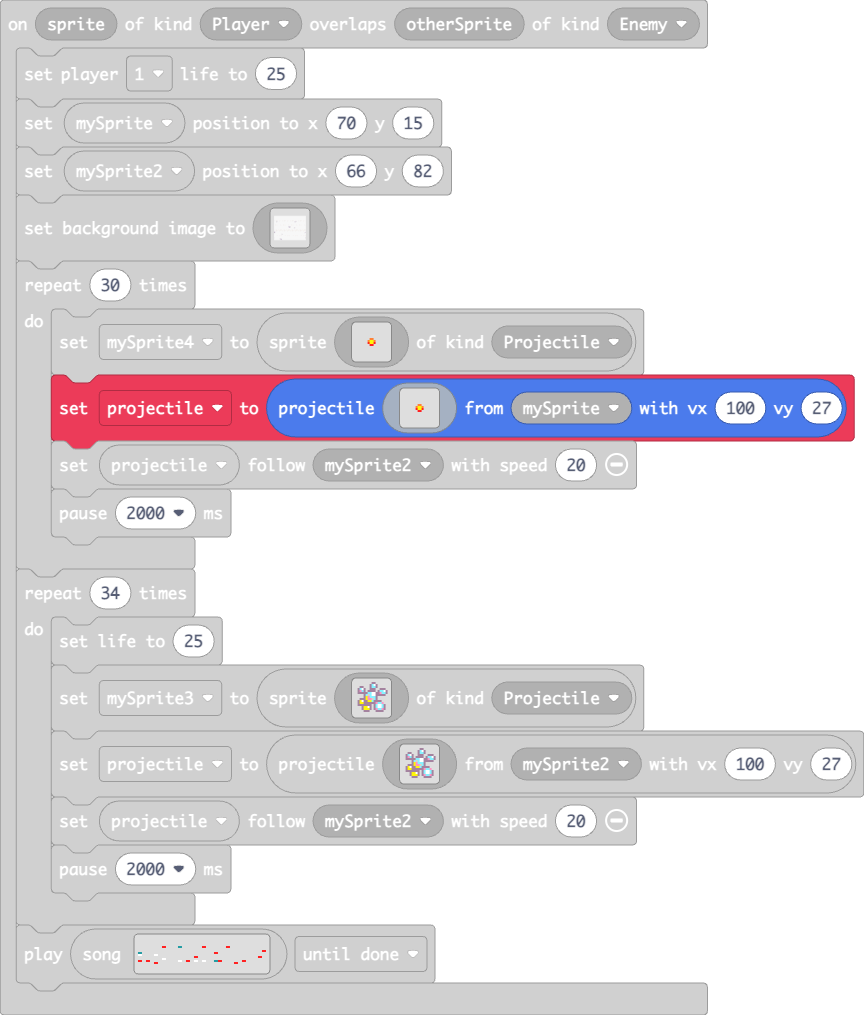
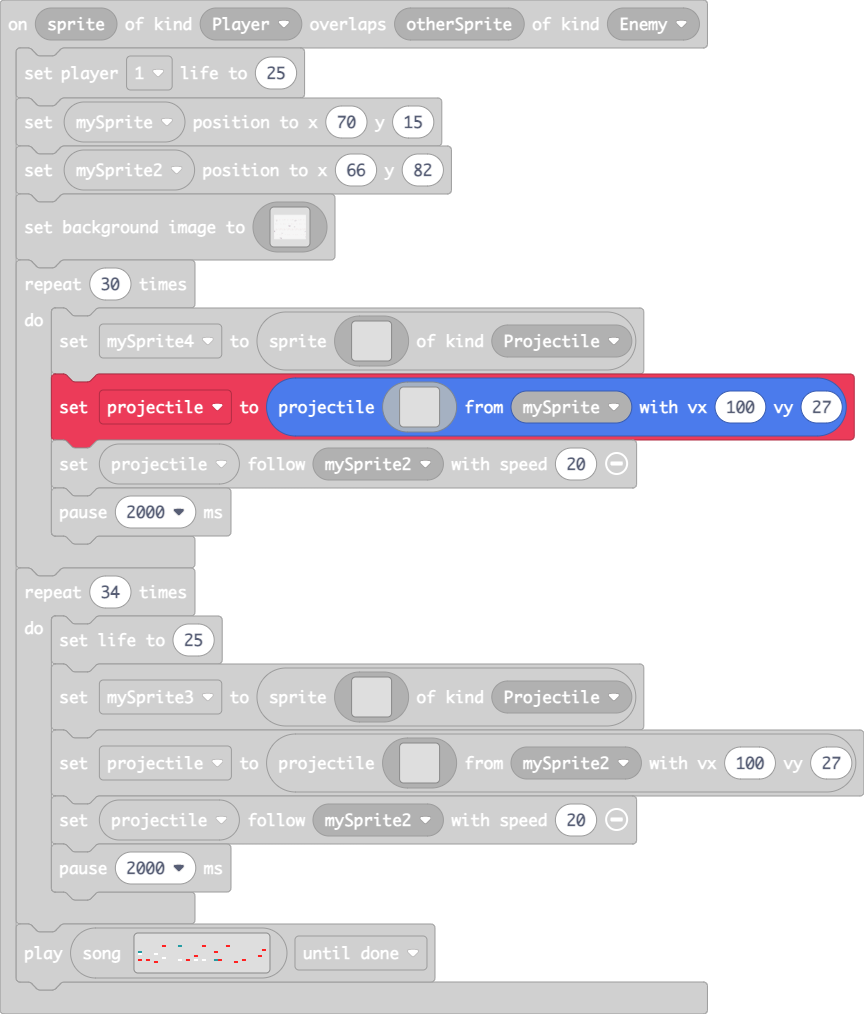
renamed What files

diff --git a/images.g.ts b/images.g.ts
@@ -841,36 +841,55 @@ cee111111111eeeeeeeeeeeeeeeeeec..
 .........fffc..............cccc..
 `;
             case "R!`kcPfAN?]MW7IUx]6`":
-            case "Tombstone":return img`
+            case "what_1":return img`
 . . . . . . . . . . . . . . . . 
 . . . . . . . . . . . . . . . . 
 . . . . . . . . . . . . . . . . 
 . . . . . . . . . . . . . . . . 
 . . . . . . . . . . . . . . . . 
 . . . . . . . . . . . . . . . . 
-. . . . . . d d d d d . . . . . 
-. . . . . d d d d d d d . . . . 
-. . . . d d d d d d d d d . . . 
-. . . . d d d d d d d d d . . . 
-. . . . d d f d d d f d d . . . 
-. . . . d d f d d d f d d . . . 
-. . . . d d d d d d d d d . . . 
-. . . . d d d d d d d d d . . . 
-. . . . d d d d d d d d d . . . 
-. . . . d d d d d d d d d . . . 
+. . . . . . . . . . . . . . . . 
+. . . . . . . . . . . . . . . . 
+. . . . . . . . . . . . . . . . 
+. . . . . . . . . . . . . . . . 
+. . . . . . . . . . . . . . . . 
+. . . . . . . . . . . . . . . . 
+. . . . . . . . . . . . . . . . 
+. . . . . . . . . . . . . . . . 
+. . . . . . . . . . . . . . . . 
+. . . . . . . . . . . . . . . . 
 `;
             case "O[T#~`!^haJ]U$Sr3qzS":
-            case "Fireball1":return img`
+            case "what_2":return img`
 . . . . . . . . . . . . . . . . 
 . . . . . . . . . . . . . . . . 
 . . . . . . . . . . . . . . . . 
 . . . . . . . . . . . . . . . . 
 . . . . . . . . . . . . . . . . 
 . . . . . . . . . . . . . . . . 
-. . . . . . . 4 4 . . . . . . . 
-. . . . . . 4 5 5 4 . . . . . . 
-. . . . . . 2 5 5 2 . . . . . . 
-. . . . . . . 2 2 . . . . . . . 
+. . . . . . . . . . . . . . . . 
+. . . . . . . . . . . . . . . . 
+. . . . . . . . . . . . . . . . 
+. . . . . . . . . . . . . . . . 
+. . . . . . . . . . . . . . . . 
+. . . . . . . . . . . . . . . . 
+. . . . . . . . . . . . . . . . 
+. . . . . . . . . . . . . . . . 
+. . . . . . . . . . . . . . . . 
+. . . . . . . . . . . . . . . . 
+`;
+            case "Mfrcm;8zj":
+            case "What_3":return img`
+. . . . . . . . . . . . . . . . 
+. . . . . . . . . . . . . . . . 
+. . . . . . . . . . . . . . . . 
+. . . . . . . . . . . . . . . . 
+. . . . . . . . . . . . . . . . 
+. . . . . . . . . . . . . . . . 
+. . . . . . . . . . . . . . . . 
+. . . . . . . . . . . . . . . . 
+. . . . . . . . . . . . . . . . 
+. . . . . . . . . . . . . . . . 
 . . . . . . . . . . . . . . . . 
 . . . . . . . . . . . . . . . . 
 . . . . . . . . . . . . . . . . 
@@ -879,41 +898,41 @@ cee111111111eeeeeeeeeeeeeeeeeec..
 . . . . . . . . . . . . . . . . 
 `;
             case "XS!9m{rvMl(Jvx?wL5Ek":
-            case "Bubble1":return img`
-. . . . . . . . b b . . . . . . 
-. . . . . . . b 9 1 b . . . . . 
-. . b b . . . b 9 9 b . . . . . 
-. b 9 1 b . . b b b . . b b b . 
-. b 3 9 b . b b b b . b 9 9 1 b 
-. b b b b b 9 9 1 1 b b 3 9 9 b 
-. . . . b 9 d 9 1 1 b b b b b . 
-. . . . b 5 3 9 9 9 b . . . . . 
-. . b b b 5 3 3 d 9 b . . . . . 
-. b 5 1 b b 5 5 9 b b b b . . . 
-. b 5 5 b b b b b b 3 9 9 3 . . 
-. b b b b b b b . b 9 1 1 9 b . 
-. . . b 5 5 1 b . b 9 1 1 9 b . 
-. . . b 5 5 5 b . b 3 9 9 3 b . 
-. . . . b b b . . . b b b b . . 
+            case "What_4":return img`
+. . . . . . . . . . . . . . . . 
+. . . . . . . . . . . . . . . . 
+. . . . . . . . . . . . . . . . 
+. . . . . . . . . . . . . . . . 
+. . . . . . . . . . . . . . . . 
+. . . . . . . . . . . . . . . . 
+. . . . . . . . . . . . . . . . 
+. . . . . . . . . . . . . . . . 
+. . . . . . . . . . . . . . . . 
+. . . . . . . . . . . . . . . . 
+. . . . . . . . . . . . . . . . 
+. . . . . . . . . . . . . . . . 
+. . . . . . . . . . . . . . . . 
+. . . . . . . . . . . . . . . . 
+. . . . . . . . . . . . . . . . 
 . . . . . . . . . . . . . . . . 
 `;
             case "auY}IkZuvW(lZXgt*zH=":
-            case "Bubble2":return img`
-. . . . . . . . b b . . . . . . 
-. . . . . . . b 9 1 b . . . . . 
-. . b b . . . b 9 9 b . . . . . 
-. b 9 1 b . . b b b . . b b b . 
-. b 3 9 b . b b b b . b 9 9 1 b 
-. b b b b b 9 9 1 1 b b 3 9 9 b 
-. . . . b 9 d 9 1 1 b b b b b . 
-. . . . b 5 3 9 9 9 b . . . . . 
-. . b b b 5 3 3 d 9 b . . . . . 
-. b 5 1 b b 5 5 9 b b b b . . . 
-. b 5 5 b b b b b b 3 9 9 3 . . 
-. b b b b b b b . b 9 1 1 9 b . 
-. . . b 5 5 1 b . b 9 1 1 9 b . 
-. . . b 5 5 5 b . b 3 9 9 3 b . 
-. . . . b b b . . . b b b b . . 
+            case "What_5":return img`
+. . . . . . . . . . . . . . . . 
+. . . . . . . . . . . . . . . . 
+. . . . . . . . . . . . . . . . 
+. . . . . . . . . . . . . . . . 
+. . . . . . . . . . . . . . . . 
+. . . . . . . . . . . . . . . . 
+. . . . . . . . . . . . . . . . 
+. . . . . . . . . . . . . . . . 
+. . . . . . . . . . . . . . . . 
+. . . . . . . . . . . . . . . . 
+. . . . . . . . . . . . . . . . 
+. . . . . . . . . . . . . . . . 
+. . . . . . . . . . . . . . . . 
+. . . . . . . . . . . . . . . . 
+. . . . . . . . . . . . . . . . 
 . . . . . . . . . . . . . . . . 
 `;
         }

diff --git a/main.ts b/main.ts
@@ -10,15 +10,15 @@ sprites.onOverlap(SpriteKind.Player, SpriteKind.Enemy, function (sprite, otherSp
     mySprite2.setPosition(66, 82)
     scene.setBackgroundImage(assets.image`Road`)
     for (let index = 0; index < 30; index++) {
-        mySprite4 = sprites.create(assets.image`Fireball1`, SpriteKind.Projectile)
-        projectile = sprites.createProjectileFromSprite(assets.image`Fireball1`, mySprite, 100, 27)
+        mySprite4 = sprites.create(assets.image`what_2`, SpriteKind.Projectile)
+        projectile = sprites.createProjectileFromSprite(assets.image`What_3`, mySprite, 100, 27)
         projectile.follow(mySprite2, 20)
         pause(2000)
     }
     for (let index = 0; index < 34; index++) {
         info.setLife(25)
-        mySprite3 = sprites.create(assets.image`Bubble1`, SpriteKind.Projectile)
-        projectile = sprites.createProjectileFromSprite(assets.image`Bubble2`, mySprite2, 100, 27)
+        mySprite3 = sprites.create(assets.image`What_4`, SpriteKind.Projectile)
+        projectile = sprites.createProjectileFromSprite(assets.image`What_5`, mySprite2, 100, 27)
         projectile.follow(mySprite2, 20)
         pause(2000)
     }
@@ -36,7 +36,7 @@ game.setDialogTextColor(15)
 game.showLongText("Press A to start", DialogLayout.Center)
 scene.setBackgroundImage(assets.image`Winter_Tree_Background_Night`)
 game.setDialogTextColor(15)
-mySprite2 = sprites.create(assets.image`Tombstone`, SpriteKind.Enemy)
+mySprite2 = sprites.create(assets.image`what_1`, SpriteKind.Enemy)
 info.setLife(23)
 controller.moveSprite(mySprite, 100, 100)
 mySprite.setPosition(123, 88)
